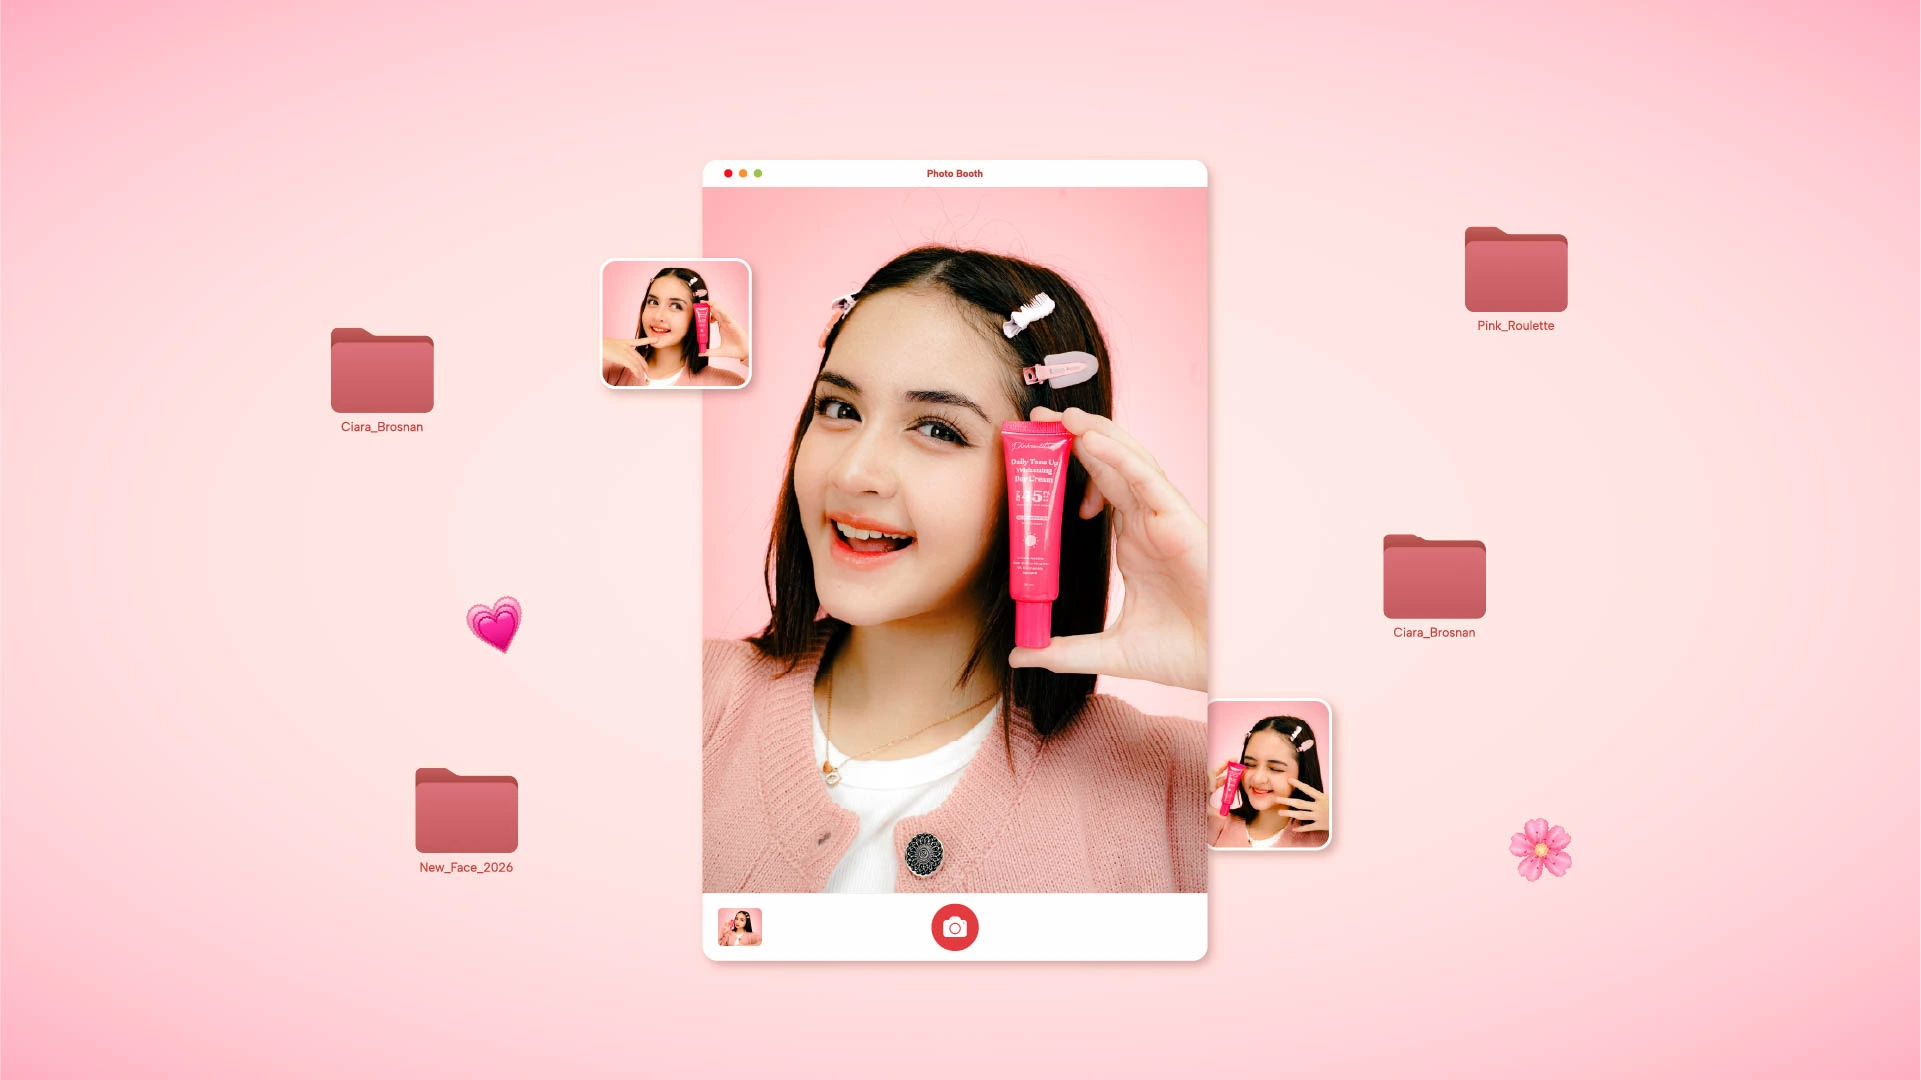
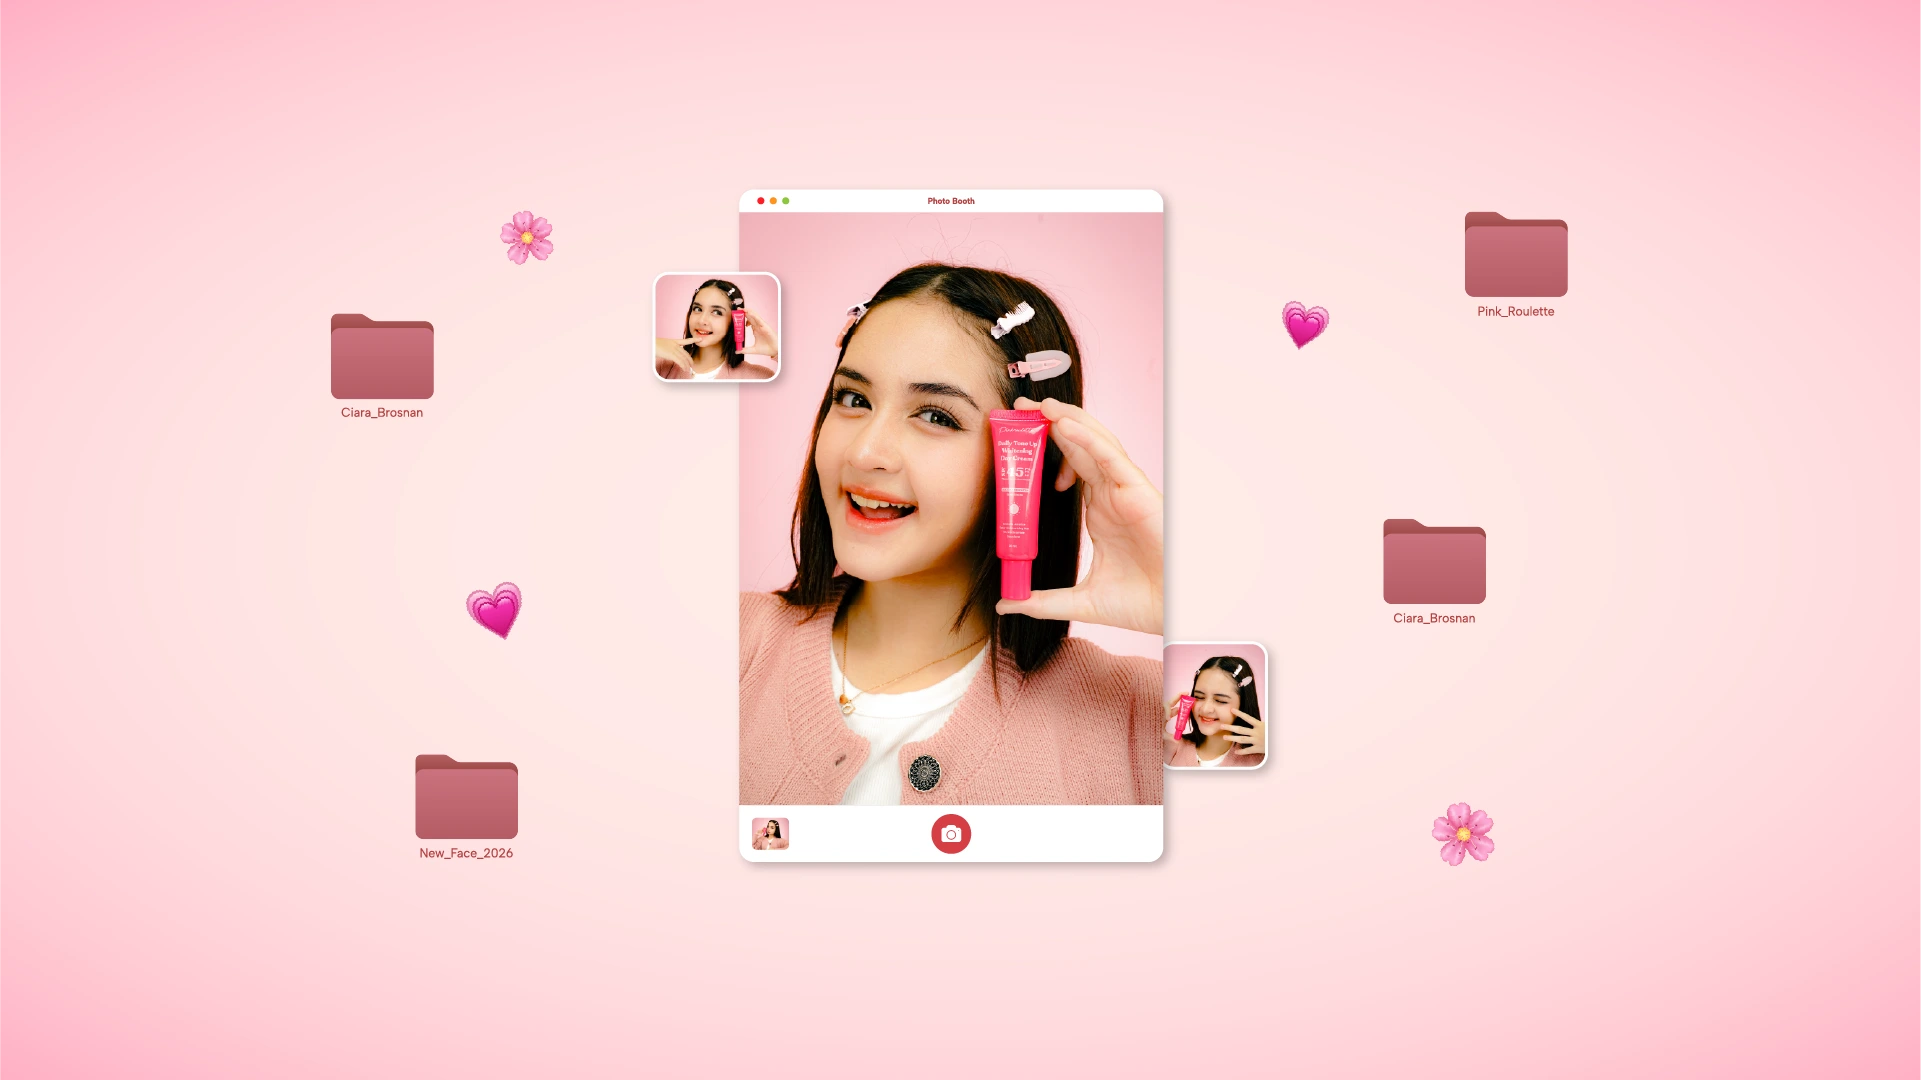
Publish Pink Roulette case study, unlock its card, fix SEO metadata
- Pink Roulette: card opens the page, noindex removed, added to sitemap; hero uses
  card-model.webp with the image position tuned so the gap above and below the
  Photo Booth window is even; launch reel poster; Creative Approach, Key Insights
  and the lookbook slider removed; description aligned to the actual roles
- Sitemap: add the missing Torch Main Cantik entry
- Gundam description kept within the real scope (video production and post-production)
- Bocelli title and JSON-LD: drop em dashes
- Portfolio index description names live projects instead of the draft Studio Berka

diff --git a/portfolio/pink-roulette.html b/portfolio/pink-roulette.html
@@ -1,16 +1,15 @@
 <!DOCTYPE html>
 <!--
-    DRAFT: Ciara Brosnan for Pink Roulette. Not linked from the portfolio grid or sitemap yet, and
-    marked noindex below. Before publishing:
+    Ciara Brosnan for Pink Roulette. Live: linked from the portfolio grid (portfolio.js id 12),
+    indexable, listed in sitemap.xml.
       1. The photos are compressed WebP in pink-roulette/ (card-model.webp, catalog-1.webp, ...). They
          are your selected frames. To swap one, export a frame as WebP
          (long edge 1800px, 2400px for card-model.webp, quality ~80) and overwrite
          the file with the same name; no HTML change needed. Raw exports live in pink-roulette/edited/
          (git-ignored).
-      2. Remove the robots noindex meta, set `link` for id 12 in portfolio.js, add to sitemap.xml.
-      3. Record the VO from vo-scripts/pink-roulette-vo-script.md and save it as
-         assets/audio/vo-pink-roulette.mp3.
-      4. Still waiting on material: BTS stills.
+      2. Still to do: record the VO from vo-scripts/pink-roulette-vo-script.md and save it as
+         assets/audio/vo-pink-roulette.mp3 (the player in Overview is silent until it exists).
+      3. Still waiting on material: BTS stills.
 -->
 <html data-wf-domain="mdkg.webflow.io" data-wf-page="pink-roulette" data-wf-site="6933c25a0996b0f96f5c2bc3" data-wf-status="1" lang="en">
     <head>
@@ -19,13 +18,12 @@
         <link href="https://fonts.googleapis.com/css2?family=Inter:wght@100;200;300;400;500;600;700;800;900&display=swap" rel="stylesheet">
 
         <title>Ciara Brosnan for Pink Roulette | Portfolio | MDKG Portfolio</title>
-        <meta name="robots" content="noindex, nofollow"/>
-        <meta content="Photography, photo editing and digital imaging for Pink Roulette's Everyday Beauty Companion campaign, introducing Ciara Brosnan as the brand's new face." name="description"/>
+        <meta content="Photo production and post-production for Pink Roulette's Everyday Beauty Companion campaign, introducing Ciara Brosnan as the brand's new face." name="description"/>
         <meta content="Ciara Brosnan for Pink Roulette | Portfolio" property="og:title"/>
-        <meta content="Photography, photo editing and digital imaging for Pink Roulette's Everyday Beauty Companion campaign, introducing Ciara Brosnan as the brand's new face." property="og:description"/>
+        <meta content="Photo production and post-production for Pink Roulette's Everyday Beauty Companion campaign, introducing Ciara Brosnan as the brand's new face." property="og:description"/>
         <meta content="https://hellodimas.my.id/assets/images/project/pink-roulette/card-model.webp" property="og:image"/>
         <meta content="Ciara Brosnan for Pink Roulette | Portfolio" property="twitter:title"/>
-        <meta content="Photography, photo editing and digital imaging for Pink Roulette's Everyday Beauty Companion campaign, introducing Ciara Brosnan as the brand's new face." property="twitter:description"/>
+        <meta content="Photo production and post-production for Pink Roulette's Everyday Beauty Companion campaign, introducing Ciara Brosnan as the brand's new face." property="twitter:description"/>
         <meta content="https://hellodimas.my.id/assets/images/project/pink-roulette/card-model.webp" name="twitter:image"/>
         <meta property="og:url" content="https://hellodimas.my.id/portfolio/pink-roulette"/>
         <meta property="og:site_name" content="MDKG Portfolio"/>
@@ -66,10 +64,10 @@
             "@type": "Organization",
             "name": "Pink Roulette"
           },
-          "description": "Photography, photo editing and digital imaging for Pink Roulette's Everyday Beauty Companion campaign, introducing Ciara Brosnan as the brand's new face.",
+          "description": "Photo production and post-production for Pink Roulette's Everyday Beauty Companion campaign, introducing Ciara Brosnan as the brand's new face.",
           "image": "https://hellodimas.my.id/assets/images/project/pink-roulette/card-model.webp",
           "url": "https://hellodimas.my.id/portfolio/pink-roulette",
-          "keywords": "Pink Roulette, Ciara Brosnan, Everyday Beauty Companion, skincare, beauty photography, photo editing, digital imaging, photo case study"
+          "keywords": "Pink Roulette, Ciara Brosnan, Everyday Beauty Companion, skincare, beauty photography, photo production, post production, photo editing, digital imaging, photo case study"
         }
         </script>
         <script type="application/ld+json">
@@ -144,6 +142,8 @@
                 text-transform: uppercase;
                 color: #B76A84;
             }
+            /* The Photo Booth sits slightly above the art's centre; 44% (not 50%) shifts the image down a touch so the gap above and below the window is even. */
+            .ed-hero .ed-hero-media img { object-position: 50% 44%; }
             /* Hero photo placeholder: same treatment as a missing .pr-frame. */
             .ed-hero-media.is-missing { background: #F6E9ED; }
             .ed-hero-media.is-missing img { opacity: 0; }

diff --git a/portfolio/andrea-bocelli-romanza-indonesia.html b/portfolio/andrea-bocelli-romanza-indonesia.html
@@ -5,12 +5,12 @@
 
         <link href="https://fonts.googleapis.com/css2?family=Inter:wght@100;200;300;400;500;600;700;800;900&display=swap" rel="stylesheet">
 
-        <title>Andrea Bocelli — Romanza 30th Anniversary World Tour Indonesia | M. Dimas K. G.</title>
+        <title>Andrea Bocelli: Romanza 30th Anniversary World Tour Indonesia | M. Dimas K. G.</title>
         <meta content="Creative production for Andrea Bocelli's Romanza 30th Anniversary World Tour Indonesia, covering photography, videography, editing, and motion design across digital campaign, OOH, press conference, and event collateral." name="description"/>
-        <meta content="Andrea Bocelli — Romanza 30th Anniversary World Tour Indonesia" property="og:title"/>
+        <meta content="Andrea Bocelli: Romanza 30th Anniversary World Tour Indonesia" property="og:title"/>
         <meta content="Photography, video, editing, and motion production for the Romanza 30th Anniversary World Tour in Indonesia." property="og:description"/>
         <meta content="https://hellodimas.my.id/assets/images/open-graphimage.png" property="og:image"/>
-        <meta content="Andrea Bocelli — Romanza 30th Anniversary World Tour Indonesia" property="twitter:title"/>
+        <meta content="Andrea Bocelli: Romanza 30th Anniversary World Tour Indonesia" property="twitter:title"/>
         <meta content="Photography, video, editing, and motion production for the Romanza 30th Anniversary World Tour in Indonesia." property="twitter:description"/>
         <meta content="https://hellodimas.my.id/assets/images/open-graphimage.png" name="twitter:image"/>
         <meta property="og:url" content="https://hellodimas.my.id/portfolio/andrea-bocelli-romanza-indonesia"/>
@@ -42,7 +42,7 @@
         {
           "@context": "https://schema.org",
           "@type": "CreativeWork",
-          "name": "Andrea Bocelli — Romanza 30th Anniversary World Tour Indonesia",
+          "name": "Andrea Bocelli: Romanza 30th Anniversary World Tour Indonesia",
           "author": {
             "@type": "Person",
             "name": "M. Dimas K. G.",
@@ -50,7 +50,7 @@
           },
           "about": {
             "@type": "Event",
-            "name": "Romanza 30th Anniversary World Tour — Indonesia",
+            "name": "Romanza 30th Anniversary World Tour Indonesia",
             "performer": "Andrea Bocelli"
           },
           "creator": {
@@ -80,7 +80,7 @@
           },{
             "@type": "ListItem",
             "position": 3,
-            "name": "Andrea Bocelli — Romanza 30th Anniversary World Tour Indonesia",
+            "name": "Andrea Bocelli: Romanza 30th Anniversary World Tour Indonesia",
             "item": "https://hellodimas.my.id/portfolio/andrea-bocelli-romanza-indonesia"
           }]
         }

diff --git a/portfolio/index.html b/portfolio/index.html
@@ -9,12 +9,12 @@
         <link href="https://fonts.googleapis.com/css2?family=Inter:wght@100;200;300;400;500;600;700;800;900&display=swap" rel="stylesheet">
 
         <title>Portfolio | M. Dimas K. G.</title>
-        <meta content="Case studies in video production, color grading, and art direction for brands like Torch and Studio Berka, built around strategy, not just footage." name="description"/>
+        <meta content="Case studies in video production, photo production, and post-production for brands like Torch, Tsukamie, and Pink Roulette, built around strategy, not just footage." name="description"/>
         <meta content="Portfolio | M. Dimas K. G." property="og:title"/>
-        <meta content="Case studies in video production, color grading, and art direction for brands like Torch and Studio Berka, built around strategy, not just footage." property="og:description"/>
+        <meta content="Case studies in video production, photo production, and post-production for brands like Torch, Tsukamie, and Pink Roulette, built around strategy, not just footage." property="og:description"/>
         <meta content="https://hellodimas.my.id/assets/images/open-graphimage.png" property="og:image"/>
         <meta content="Portfolio | M. Dimas K. G." property="twitter:title"/>
-        <meta content="Case studies in video production, color grading, and art direction for brands like Torch and Studio Berka, built around strategy, not just footage." property="twitter:description"/>
+        <meta content="Case studies in video production, photo production, and post-production for brands like Torch, Tsukamie, and Pink Roulette, built around strategy, not just footage." property="twitter:description"/>
         <meta content="https://hellodimas.my.id/assets/images/open-graphimage.png" name="twitter:image"/>
         <meta property="og:url" content="https://hellodimas.my.id/portfolio"/>
         <meta property="og:site_name" content="MDKG Portfolio"/>
@@ -31,7 +31,7 @@
           "@context": "https://schema.org",
           "@type": "CollectionPage",
           "name": "Portfolio",
-          "description": "Case studies in video production, color grading, and art direction for brands like Torch and Studio Berka, built around strategy, not just footage.",
+          "description": "Case studies in video production, photo production, and post-production for brands like Torch, Tsukamie, and Pink Roulette, built around strategy, not just footage.",
           "url": "https://hellodimas.my.id/portfolio",
           "author": {
             "@type": "Person",

diff --git a/portfolio/torch-x-gundam.html b/portfolio/torch-x-gundam.html
@@ -11,12 +11,12 @@
         <link href="https://fonts.googleapis.com/css2?family=Inter:wght@100;200;300;400;500;600;700;800;900&display=swap" rel="stylesheet">
 
         <title>Torch x Gundam Campaign | Portfolio | MDKG Portfolio</title>
-        <meta content="Case study: Cinematic visual execution and creative direction for the Torch x Mobile Suit Gundam collaboration, driving 1.82M+ organic views with no paid distribution." name="description"/>
+        <meta content="Case study: Video production and post-production for the Torch x Mobile Suit Gundam collaboration, driving 1.82M+ organic views with no paid distribution." name="description"/>
         <meta content="Torch x Gundam Campaign | Portfolio" property="og:title"/>
-        <meta content="Case study: Cinematic visual execution and creative direction for the Torch x Mobile Suit Gundam collaboration, driving 1.82M+ organic views with no paid distribution." property="og:description"/>
+        <meta content="Case study: Video production and post-production for the Torch x Mobile Suit Gundam collaboration, driving 1.82M+ organic views with no paid distribution." property="og:description"/>
         <meta content="https://hellodimas.my.id/assets/images/project/torch/torch-model-backpack.webp" property="og:image"/>
         <meta content="Torch x Gundam Campaign | Portfolio" property="twitter:title"/>
-        <meta content="Case study: Cinematic visual execution and creative direction for the Torch x Mobile Suit Gundam collaboration, driving 1.82M+ organic views with no paid distribution." property="twitter:description"/>
+        <meta content="Case study: Video production and post-production for the Torch x Mobile Suit Gundam collaboration, driving 1.82M+ organic views with no paid distribution." property="twitter:description"/>
         <meta content="https://hellodimas.my.id/assets/images/project/torch/torch-model-backpack.webp" name="twitter:image"/>
         <meta property="og:url" content="https://hellodimas.my.id/portfolio/torch-x-gundam"/>
         <meta property="og:site_name" content="MDKG Portfolio"/>

diff --git a/portfolio.js b/portfolio.js
@@ -66,13 +66,12 @@ document.addEventListener("DOMContentLoaded", (event) => {
                 category: "Photo Production · Post Production",
                 industry: "Beauty",
                 roles: ["Photo Production", "Post Production"],
-                link: "",
+                link: "/portfolio/pink-roulette",
                 clientName: "Pink Roulette",
                 description: "Photography and motion introducing Pink Roulette’s new face, Ciara Brosnan, alongside its latest products.",
                 brandInfo: "A local beauty and lifestyle brand established in 2018, offering a variety of skincare and makeup products in Indonesia.",
                 image: "../assets/images/project/pink-roulette/card-model.webp",
-                srcset: "",
-                ongoing: true
+                srcset: ""
             },
             // Hidden for now — Dunkin Donuts (id 11) card, per request.
             // {
